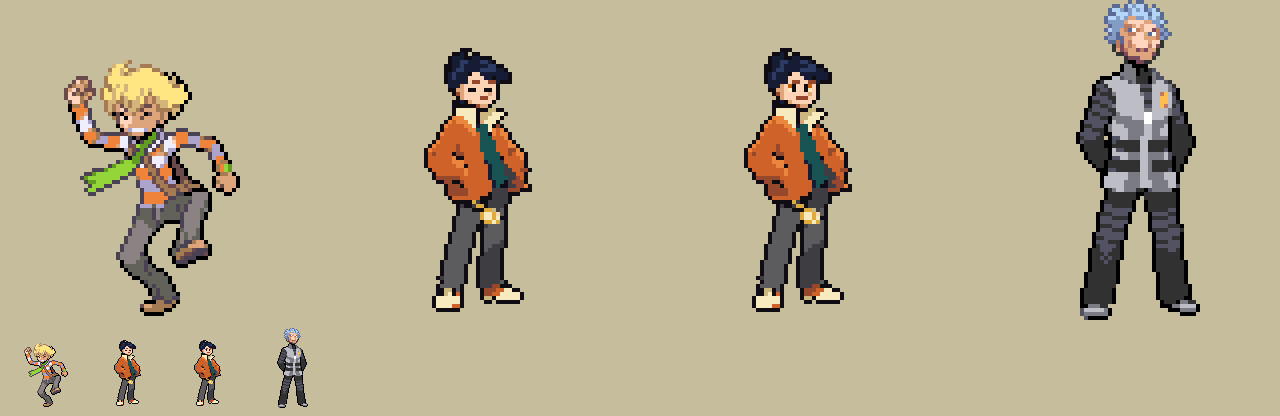
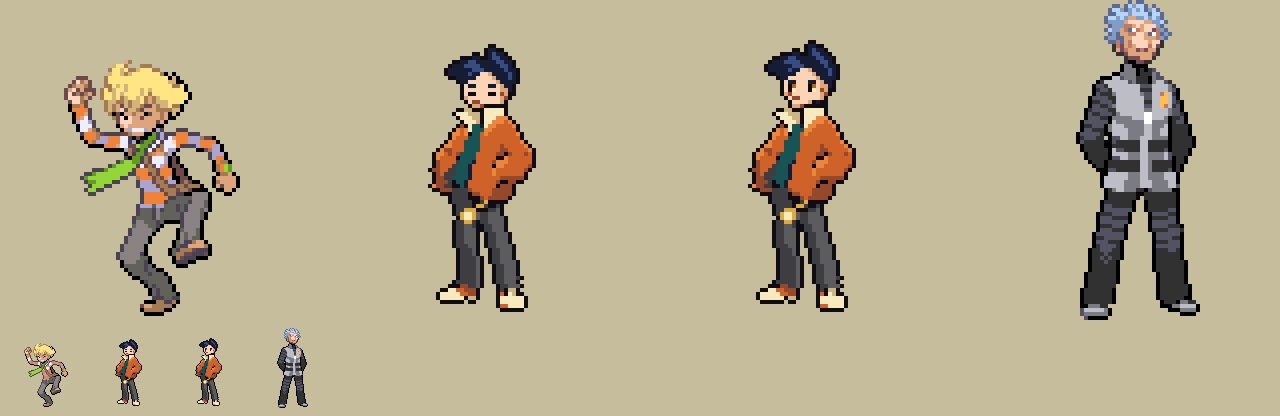
Garius battle sprite: redrawn head, thinner outline, shading, watch, faces left
Claude-Session: https://claude.ai/code/session_01R78qiwB9QFmdVUsfyXJHwi

diff --git a/tools/garius_sprite/garius_battle.py b/tools/garius_sprite/garius_battle.py
@@ -4,10 +4,11 @@
 The pose, anatomy and shading come from a generated concept image
 (docs/story/art/src/garius_battle_concept.webp), shrunk to 80x80 and 15 colours by
 convert_concept.py (-> concept_grid.txt). This script applies the clean-up on top:
-  1. closes the outline wherever the shrink lost it,
-  2. lights the top edges of the jacket and keeps the shirt teal,
-  3. redraws by hand what does not survive at this size: face, hair lights, watch.
-Two frames for the intro animation: eyes shut and mouth flat, then eyes open with the smirk.
+  1. closes the outline wherever the shrink lost it and thins it back to one pixel,
+  2. shades the jacket, shirt and trousers (lit from the top left),
+  3. redraws by hand what does not survive at this size: the whole head and the watch,
+  4. mirrors the frame so he faces left, towards the player, like the stock opponents.
+Two frames for the intro animation: head bowed with eyes shut, then looking up with the smirk.
 
     python3 tools/garius_sprite/garius_battle.py            # write both frames (160x80)
     python3 tools/garius_sprite/garius_battle.py --preview  # also the preview (needs PIL)
@@ -37,29 +38,41 @@ PALETTE = [(255, 0, 255)] + [LETTER_COLOURS[k] for k in LETTERS]
 INDEX = {k: n + 1 for n, k in enumerate(LETTERS)}
 
 # Hand-drawn patches: (x, y, rows). '.' leaves the pixel alone, '_' clears it.
-FACE = (31, 20, [
-    "KHHHHHaSSaaSSHKK",
-    "_HHHsaeKaaKeaK__",
-    "_KKssawKaaKwaK__",
-    "__KSsaaaaaasaK__",
-    "___KsaaaSSSaaK__",
-    "__KKHKsaaaaaK___",
-    "__KKKKKKSssK____",
+# Drawn in the concept's orientation (facing right); the finished frame is mirrored so he
+# faces left, towards the player, like the stock opponents.
+HEAD_BOX = (28, 10, 51, 27)  # cleared before the head is painted (x0, y0, x1, y1)
+HEAD = (30, 10, [
+    "......KK...........",
+    "....KKHHK..........",
+    "...KHHhHK.KK.......",
+    "..KHHhhHKKHHKKK....",
+    ".KHHhhHHHHHhhHHKK..",
+    ".KHhhHHHHHhhhhHHHK.",
+    "KHHhHHHHHhhhHHHHHHK",
+    "KHhHHHHsaaHHhHHHHHK",
+    "KHhHHHsaaaaHHHHHKK.",
+    "KHHHHsaaaaaaaHHK...",
+    ".KHHsaHHaaaHHaK....",
+    ".KHssaeKaaaeKaK....",
+    ".KKsSawKaaawKaK....",
+    "..KSsaaaaaaaSsK....",
+    "...KsaaaaaSSaK.....",
+    "...KKHKsaaaaK......",
+    "...KKKKKKSssK......",
 ])
-EYES_SHUT = (31, 21, [
-    "_HHHsaaaaaaaaK__",
-    "_KKssaKKaaKKaK__",
-    "__KSsaaaaaasaK__",
-    "___KsaaaaSSaaK__",
-])
-HAIR_LIGHTS = [(35, 15), (36, 15), (40, 15), (41, 15), (34, 17), (35, 17), (33, 18), (33, 19)]
+# Frame 1 changes these rows of HEAD (eyes shut, no smirk) and bows the head one pixel.
+SHUT_ROWS = {
+    11: ".KHssaaaaaaaaaK....",
+    12: ".KKsSaKKaaaKKaK....",
+    13: "..KSsaaaaaaaasK....",
+}
 WATCH = (38, 50, [
-    "g.....",
-    ".gg...",
-    "...gg.",
-    "..gwwg",
-    "..gwwg",
-    "...gg.",
+    "g......",
+    ".gg....",
+    "...gggD",
+    "..cgwwg",
+    "..cgwwg",
+    "...DggD",
 ])
 
 
@@ -77,36 +90,59 @@ def base() -> list[list[str]]:
     def at(x, y):
         return grid[y][x] if 0 <= x < SIZE and 0 <= y < SIZE else "."
 
+    sides = ((1, 0), (-1, 0), (0, 1), (0, -1))
+    cells = [(x, y) for y in range(SIZE) for x in range(SIZE)]
     # 1. close the outline: an empty pixel beside a coloured (non-outline) one becomes outline
-    add = [(x, y) for y in range(SIZE) for x in range(SIZE) if grid[y][x] == "."
-           and any(at(x + dx, y + dy) not in ".K" for dx, dy in ((1, 0), (-1, 0), (0, 1), (0, -1)))]
-    for x, y in add:
+    for x, y in [c for c in cells if at(*c) == "." and any(at(c[0] + dx, c[1] + dy) not in ".K" for dx, dy in sides)]:
         grid[y][x] = "K"
-    # 2. jacket: light the pixels just under a top edge; shirt: teal except its shadowed edge
+    #    ...then thin it: drop outline pixels on the outside that touch no colour at all
+    for x, y in [c for c in cells if at(*c) == "K"
+                 and any(at(c[0] + dx, c[1] + dy) == "." for dx, dy in sides)
+                 and all(at(c[0] + dx, c[1] + dy) in ".K" for dx, dy in sides)]:
+        grid[y][x] = "."
+    # 2. shading, lit from the top left. Jacket: light under a top edge, rust shadow against
+    #    a right or bottom edge. Shirt: teal except its shadowed edge. Trousers: the near
+    #    leg darkens towards its right edge, the far leg catches light on its left edge.
     for y in range(27, 50):
         for x in range(SIZE):
             if grid[y][x] == "o" and at(x, y - 1) in "Kw":
                 grid[y][x] = "p"
                 if at(x, y + 1) == "o" and at(x - 1, y) != "K":
                     grid[y + 1][x] = "p"
-        run = [x for x in range(SIZE) if grid[y][x] == "H"]
-        for x in run[1:]:
+        for x in [x for x in range(SIZE) if grid[y][x] == "H"][1:]:
             grid[y][x] = "t"
+    for x, y in [c for c in cells if at(*c) == "o" and 27 <= c[1] < 50
+                 and (at(c[0] + 1, c[1]) == "K" or at(c[0], c[1] + 1) == "K")]:
+        grid[y][x] = "S"
+    for x, y in [c for c in cells if c[1] >= 52]:
+        if grid[y][x] == "c" and "K" in (at(x + 1, y), at(x + 2, y)):
+            grid[y][x] = "D"
+    for x, y in [c for c in cells if c[1] >= 56 and at(*c) == "D" and at(c[0] - 1, c[1]) == "K"
+                 and at(c[0] + 1, c[1]) == "D"]:
+        grid[y][x] = "c"
     return grid
 
 
 def front_frames() -> list[list[int]]:
-    """[frame 1 (eyes shut), frame 2 (eyes open, smirk)]."""
+    """[frame 1 (head bowed, eyes shut), frame 2 (looking up, smirk)]."""
     frames = []
     for shut in (True, False):
         grid = base()
-        patch(grid, FACE)
+        x0, y0, x1, y1 = HEAD_BOX
+        for y in range(y0, y1):
+            for x in range(x0, x1):
+                grid[y][x] = "."
+        ox, oy, rows = HEAD
+        rows = list(rows)
         if shut:
-            patch(grid, EYES_SHUT)
-        for x, y in HAIR_LIGHTS:
-            grid[y][x] = "h"
+            for n, row in SHUT_ROWS.items():
+                rows[n] = row
+            patch(grid, (ox, oy + 1, rows[:-1]))  # the neck row stays where it is
+            patch(grid, (ox, oy + len(rows) - 1, rows[-1:]))
+        else:
+            patch(grid, (ox, oy, rows))
         patch(grid, WATCH)
-        frames.append([INDEX.get(ch, 0) for row in grid for ch in row])
+        frames.append([INDEX.get(ch, 0) for row in grid for ch in reversed(row)])
     return frames
 
 

diff --git a/tools/garius_sprite/convert_concept.py b/tools/garius_sprite/convert_concept.py
@@ -29,7 +29,7 @@ SIZE = 80
 PALETTE = {
     "K": (16, 12, 20),      # outline
     "H": (22, 28, 52),      # hair dark, also the shirt's shadow
-    "h": (44, 58, 100),     # hair mid
+    "h": (56, 76, 132),     # hair mid
     "S": (150, 72, 44),     # rust: skin shadow and jacket dark
     "s": (222, 165, 123),   # skin mid
     "a": (250, 212, 180),   # skin light

diff --git a/docs/story/art/garius.md b/docs/story/art/garius.md
@@ -22,7 +22,8 @@ Status: front-facing overworld key frame only; not in the build yet.
 Battle front sprite (shown as a battle starts): the pose comes from a generated concept image
 (`src/garius_battle_concept.webp`). `tools/garius_sprite/convert_concept.py` shrinks it to 80x80 and 15 colours
 (`concept_grid.txt`); `tools/garius_sprite/garius_battle.py` closes the outline and redraws the face, hair lights and
-watch by hand. Two frames for the intro animation: eyes shut, then eyes open with the smirk.
+watch by hand, and mirrors him to face left like the stock opponents. Two frames for the intro animation: head bowed
+with eyes shut, then looking up with the smirk.
 Preview: `garius_battle_design.png` (stock Barry, frame 1, frame 2, stock Cyrus).
 Frames: `res/trainers/classes/garius/front_design.png` (160x80).
 Status: design frames; not a trainer class in the build yet.
